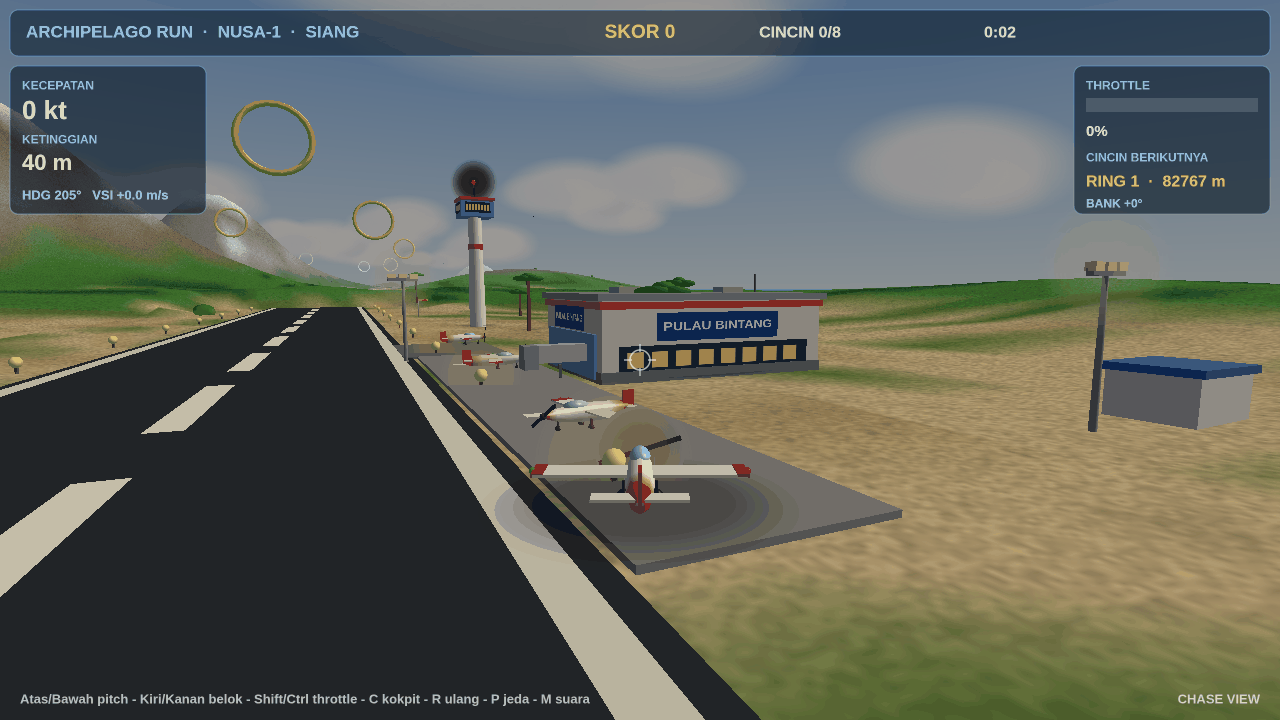
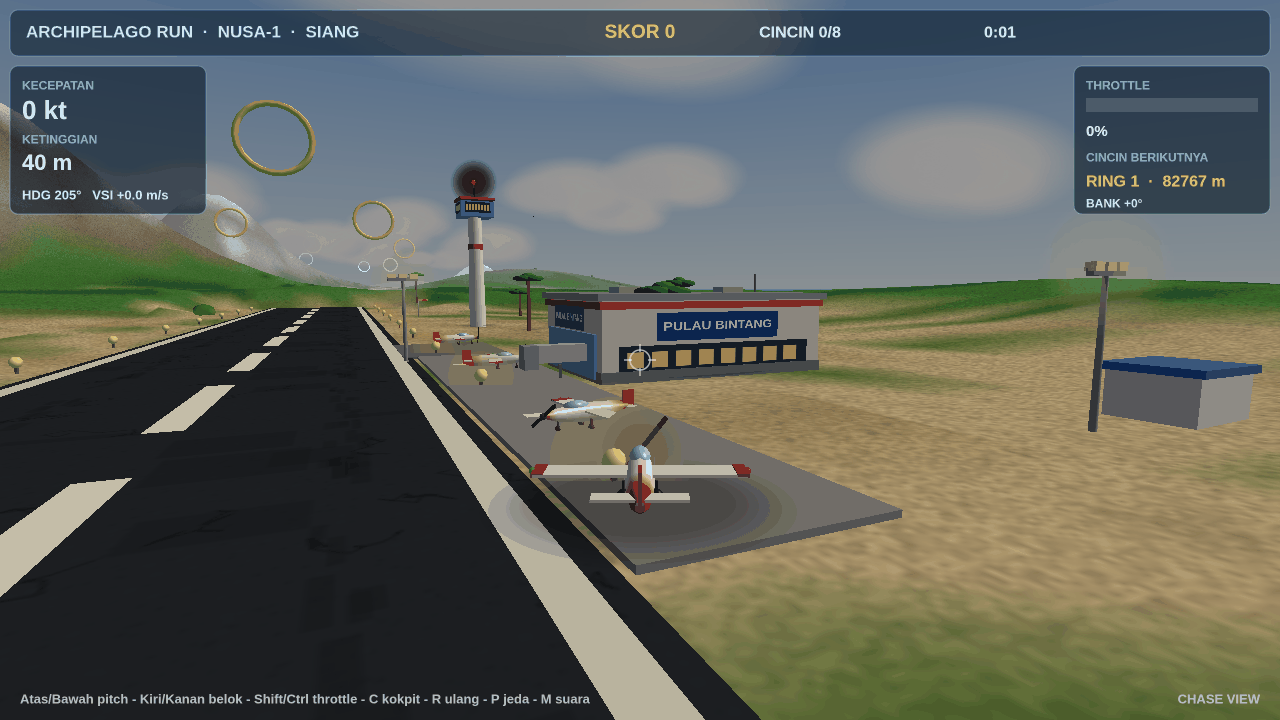
flight v2: realism pass 2 — water, asphalt, haze
- Sea is no longer a flat blue sheet: waterTex (900 ripple strokes
  + foam streaks) on a repeating UV, so the sea reads as wind-blown
  water with sun glitter
- Runway is no longer flat black: asphaltTex (cracks, tire marks,
  patches, grain) on the strip; runway split into strip (textured)
  + markings (flat) so the white lines stay crisp
- Haze stronger (fog 1200/6000 instead of 1600/7500) so distant
  islands fade into the atmosphere like real aerial perspective
Playtest 9/9, no JS errors.

diff --git a/game/index.html b/game/index.html
@@ -222,7 +222,7 @@ void main(){
   vCol=aCol;vUV=aUV;vSpec=uSpec;
   vec4 vp=uView*wp;
   float dist=-vp.z;
-  vFog=uFog>0.5?clamp((dist-1600.0)/7500.0,0.0,1.0):0.0;
+  vFog=uFog>0.5?clamp((dist-1200.0)/6000.0,0.0,1.0):0.0;
   gl_Position=uProj*vp;
 }`;
 const FS=`precision mediump float;
@@ -358,6 +358,58 @@ const winTex=canvasTexture(256,64,(g)=>{
   g.fillStyle='#ffd98a';
   for(let i=0;i<8;i++){g.fillRect(10+i*30,14,20,36);}
 });
+// water (wind ripples + foam streaks, mostly light so the sea color shows)
+const waterTex=canvasTexture(256,256,(g)=>{
+  g.fillStyle='#dfe8ea';g.fillRect(0,0,256,256);
+  // ripple strokes (short curved lines, light + dark)
+  for(let i=0;i<900;i++){
+    const x=rng()*256,y=rng()*256,a=rng()*TAU,l=4+rng()*10;
+    const v=rng()<0.5?150:245;
+    g.strokeStyle='rgba('+v+','+v+','+v+',0.4)';
+    g.lineWidth=1+rng();
+    g.beginPath();g.moveTo(x,y);
+    g.quadraticCurveTo(x+Math.cos(a)*l*0.5,y+Math.sin(a)*l*0.5+2,x+Math.cos(a)*l,y+Math.sin(a)*l);
+    g.stroke();
+  }
+  // foam streaks (thin white lines)
+  for(let i=0;i<40;i++){
+    const x=rng()*256,y=rng()*256,l=15+rng()*35;
+    g.strokeStyle='rgba(255,255,255,0.5)';
+    g.lineWidth=1;
+    g.beginPath();g.moveTo(x,y);g.lineTo(x+l,y+(rng()-0.5)*4);g.stroke();
+  }
+},true);
+// asphalt (cracks + tire marks + patches, mostly light so white markings stay white)
+const asphaltTex=canvasTexture(256,256,(g)=>{
+  g.fillStyle='#d8d8d8';g.fillRect(0,0,256,256);
+  // grain
+  for(let i=0;i<3000;i++){
+    const x=rng()*256,y=rng()*256,v=180+Math.floor(rng()*60);
+    g.fillStyle='rgba('+v+','+v+','+v+',0.5)';
+    g.fillRect(x,y,1.5,1.5);
+  }
+  // cracks (thin dark random walks)
+  for(let i=0;i<14;i++){
+    let x=rng()*256,y=rng()*256;
+    g.strokeStyle='rgba(90,90,90,0.55)';g.lineWidth=1;
+    g.beginPath();g.moveTo(x,y);
+    for(let k=0;k<12;k++){x+=(rng()-0.5)*18;y+=(rng()-0.5)*18;g.lineTo(x,y);}
+    g.stroke();
+  }
+  // tire marks (two dark vertical streaks, along the runway length)
+  for(const cx of [70,186]){
+    for(let i=0;i<24;i++){
+      const x=cx+(rng()-0.5)*14,y=rng()*256;
+      g.fillStyle='rgba(70,70,70,0.18)';
+      g.fillRect(x,y,3+rng()*4,8+rng()*22);
+    }
+  }
+  // patches (darker rectangles)
+  for(let i=0;i<8;i++){
+    g.fillStyle='rgba(110,110,110,0.2)';
+    g.fillRect(rng()*256,rng()*256,20+rng()*40,12+rng()*24);
+  }
+},true);
 
 // ---------- matrices (column-major, like WebGL expects) ----------
 function matIdentity(){return [1,0,0,0, 0,1,0,0, 0,0,1,0, 0,0,0,1];}
@@ -611,7 +663,7 @@ function buildTerrain(){
 function buildSea(){
   const m=Mesh();
   meshFlatQuad(m,[-2900,0.6,-1100],[2900,0.6,-1100],[2900,0.6,10100],[-2900,0.6,10100],
-    [0,1,0],0.10,0.48,0.62,null);
+    [0,1,0],0.10,0.48,0.62,[[-2900/150,-1100/150],[2900/150,-1100/150],[2900/150,10100/150],[-2900/150,10100/150]]);
   return meshToGL(m);
 }
 function buildSky(night){
@@ -639,35 +691,36 @@ function buildSky(night){
   return meshToGL(m);
 }
 function buildRunways(){
-  const m=Mesh();
+  const sm=Mesh(); // asphalt strips (textured)
+  const mm=Mesh(); // markings + edge lights (flat, no texture)
   // asphalt strips (09 at z=0 heading +z, 27 at z=9000)
   function strip(cz){
-    meshFlatQuad(m,[-32,2.4,cz-330],[32,2.4,cz-330],[32,2.4,cz+330],[-32,2.4,cz+330],
-      [0,1,0],0.16,0.18,0.21,null);
+    meshFlatQuad(sm,[-32,2.4,cz-330],[32,2.4,cz-330],[32,2.4,cz+330],[-32,2.4,cz+330],
+      [0,1,0],0.16,0.18,0.21,[[-0.5,-5.16],[0.5,-5.16],[0.5,5.16],[-0.5,5.16]]);
     // edge lines
-    meshFlatQuad(m,[-30,2.55,cz-320],[-27,2.55,cz-320],[-27,2.55,cz+320],[-30,2.55,cz+320],[0,1,0],0.9,0.9,0.85,null);
-    meshFlatQuad(m,[27,2.55,cz-320],[30,2.55,cz-320],[30,2.55,cz+320],[27,2.55,cz+320],[0,1,0],0.9,0.9,0.85,null);
+    meshFlatQuad(mm,[-30,2.55,cz-320],[-27,2.55,cz-320],[-27,2.55,cz+320],[-30,2.55,cz+320],[0,1,0],0.9,0.9,0.85,null);
+    meshFlatQuad(mm,[27,2.55,cz-320],[30,2.55,cz-320],[30,2.55,cz+320],[27,2.55,cz+320],[0,1,0],0.9,0.9,0.85,null);
     // centerline dashes
     for(let k=-5;k<=5;k++){
       const dz=k*55;
-      meshFlatQuad(m,[-2,2.55,cz+dz-18],[2,2.55,cz+dz-18],[2,2.55,cz+dz+18],[-2,2.55,cz+dz+18],[0,1,0],0.95,0.95,0.9,null);
+      meshFlatQuad(mm,[-2,2.55,cz+dz-18],[2,2.55,cz+dz-18],[2,2.55,cz+dz+18],[-2,2.55,cz+dz+18],[0,1,0],0.95,0.95,0.9,null);
     }
     // threshold bars
     for(let k=-3;k<=3;k++){
       const dz=(cz<4500?-300:300);
-      meshFlatQuad(m,[k*8-3,2.55,cz+dz-8],[k*8+3,2.55,cz+dz-8],[k*8+3,2.55,cz+dz+8],[k*8-3,2.55,cz+dz+8],[0,1,0],0.95,0.95,0.9,null);
+      meshFlatQuad(mm,[k*8-3,2.55,cz+dz-8],[k*8+3,2.55,cz+dz-8],[k*8+3,2.55,cz+dz+8],[k*8-3,2.55,cz+dz+8],[0,1,0],0.95,0.95,0.9,null);
     }
     // edge lights: posts + warm lamps along both sides
     for(let k=-5;k<=5;k++){
       const dz=k*55;
       for(const sx of [-38,38]){
-        meshBox(m,sx,3.0,cz+dz,0.5,2.0,0.5,0.25,0.25,0.28);
-        meshSphere(m,sx,4.2,cz+dz,1.1,1.1,1.1,1.0,0.93,0.62,6);
+        meshBox(mm,sx,3.0,cz+dz,0.5,2.0,0.5,0.25,0.25,0.28);
+        meshSphere(mm,sx,4.2,cz+dz,1.1,1.1,1.1,1.0,0.93,0.62,6);
       }
     }
   }
   strip(0);strip(9000);
-  return {mesh:meshToGL(m)};
+  return {strip:meshToGL(sm),marks:meshToGL(mm)};
 }
 // runway number decals (textured quads, drawn separately)
 function buildRunwayNumbers(){
@@ -886,7 +939,9 @@ const terrainGL=buildTerrain();
 const seaGL=buildSea();
 const skyGL=buildSky(false);
 const nightSkyGL=buildSky(true);
-const runwayGL=buildRunways().mesh;
+const runwayParts=buildRunways();
+const runwayStripGL=runwayParts.strip;
+const runwayMarksGL=runwayParts.marks;
 const runwayNums=buildRunwayNumbers();
 const palmGL=buildPalms();
 const bushGL=buildBushes();
@@ -1170,9 +1225,10 @@ function render(){
   drawMesh(S.mission==='night'?nightSkyGL:skyGL,matTranslate(eye[0],eye[1],eye[2]),{noFog:true});
   gl.depthMask(true);
   // sea (specular) then terrain
-  drawMesh(seaGL,ident,{spec:0.55});
+  drawMesh(seaGL,ident,{spec:0.55,tex:waterTex});
   drawMesh(terrainGL,ident,{tex:detailTex});
-  drawMesh(runwayGL,ident,{});
+  drawMesh(runwayStripGL,ident,{tex:asphaltTex});
+  drawMesh(runwayMarksGL,ident,{});
   drawMesh(runwayNums.n09,ident,{tex:tex09,alpha:0.95});
   drawMesh(runwayNums.n27,ident,{tex:tex27,alpha:0.95});
   drawMesh(palmGL,ident,{});
